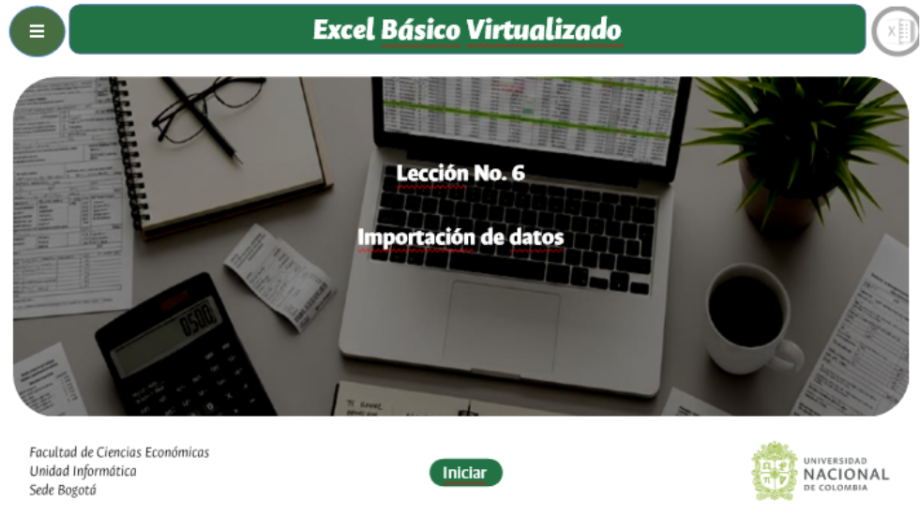
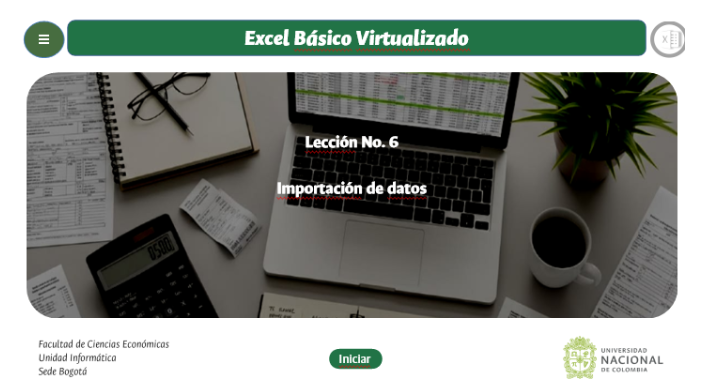
Reestructura Roles del equipo con fotos y LinkedIn, agrega tarjeta de Guion Maestro
- Roles del equipo: tarjetas con foto, nombre y LinkedIn de cada persona
  (Cesar Diaz Suarez como Monitor Master; Ana Sofia Cardozo y Juan E. Laguna
  agrupados en una sola tarjeta de Monitores Junior)
- Nueva tarjeta "Guion Maestro" en la seccion de la plantilla Articulate
- Actualiza imagen "despues" de la primera comparativa
- Renombra seccion Genially y actualiza su subtitulo
- Corrige mayuscula en tarjeta "Foco estrategico"
- Actualiza enlace del recurso "Logo Universidad Interactivo"
- Agrega entregable sobre el archivo .md de integracion con IA en el proyecto de la Guia de Primeros Pasos

diff --git a/data.js b/data.js
@@ -38,7 +38,7 @@ const INTRO_AREA_CARDS = [
   {
     icono: "🎯",
     titulo: "Foco estratégico",
-    texto: "implementar directrices técnicas y pedagógicas transversales. Esta estandarización permite garantizar la alta calidad de los materiales de estudio y maximizar el valor del ecosistema de aprendizaje institucional.",
+    texto: "Implementar directrices técnicas y pedagógicas transversales. Esta estandarización permite garantizar la alta calidad de los materiales de estudio y maximizar el valor del ecosistema de aprendizaje institucional.",
   },
   {
     icono: "🧭",
@@ -129,6 +129,7 @@ const PROYECTOS = [
       "Flujo de 7 etapas de virtualización",
       "Definición de roles (Monitor Máster, Monitores Junior, articulación con otras áreas UIFCE)",
       "Buenas prácticas metodológicas y glosario básico",
+      "<strong>Archivo .md para integrar con inteligencia artificial</strong>",
     ],
     enlaces: {
       documento: "https://docs.google.com/document/d/1d4DcUWD8yY-t4QPceg0EvUQhM8YOXi9bu39DvisUFBc/edit?usp=drive_link",
@@ -362,7 +363,7 @@ const GENIALLY = {
       nombre: "Logo Universidad Interactivo",
       desc: "Creado para colocarlo al inicio de los proyectos.",
       icono: "🏛",
-      url: "https://view.genially.com/6a32d3272e6b24dfa6a8acce",
+      url: "https://drive.google.com/file/d/1sc0Up1jHa-cmhAWqYCL3588x3c0joYuQ/view?usp=sharing",
     },
     {
       nombre: "Materia FCE · Fundamentos de finanzas",
@@ -627,6 +628,13 @@ const PLANTILLA_ARTICULATE = {
   despues: "assets/plantillas/excel-basico-despues.png",
 };
 
+const GUION_MAESTRO = {
+  icono: "📖",
+  titulo: "Nuevo formato: Guión Maestro",
+  desc: "El documento en el que se justifica, desarrolla y documenta cada curso: la base metodológica y de contenido que sustenta el proyecto antes de pasar a producción en Articulate.",
+  url: "https://docs.google.com/document/d/1aZcZ8aBgISKxA-sPjxUsgzjeaMWXVd799EcVeNoiIdM/edit?usp=sharing",
+};
+
 const COMPARATIVA_2 = {
   antes: "assets/plantillas/comparativa2-antes.png",
   despues: "assets/plantillas/comparativa2-despues.gif",
@@ -651,8 +659,21 @@ const FLUJO_VIRTUALIZACION = [
 ];
 
 const ROLES_VIRTUALIZACION = [
-  { icono: "🧑💼", nombre: "Monitor Máster", desc: "Planea, supervisa y coordina el flujo general del área; valida calidad y coherencia de los OVAs." },
-  { icono: "🧑💻", nombre: "Monitores Junior", desc: "Desarrollan y producen los recursos: contenidos, interactividad, audiovisuales y documentación." },
+  {
+    rol: "Monitor Máster",
+    desc: "Implementar, diseñar y gestionar la infraestructura virtualizada conforme a los estándares operativos de la Unidad de Informática, asegurando una experiencia de aprendizaje digital continua, segura y eficiente.",
+    integrantes: [
+      { nombre: "Cesar Diaz Suarez", foto: "assets/equipo/cesar-diaz.png", linkedin: "https://www.linkedin.com/in/cesar-steven-diaz-suarez-744b82250" },
+    ],
+  },
+  {
+    rol: "Monitores Junior",
+    desc: "Producir entornos virtuales e-learning optimizando la experiencia educativa y la disponibilidad de los servicios para la comunidad académica.",
+    integrantes: [
+      { nombre: "Ana Sofia Cardozo", foto: "assets/equipo/ana-cardozo.jpg", linkedin: "https://www.linkedin.com/in/ana-sofia-cardozo-castro-9486a9359?utm_source=share_via&utm_content=profile&utm_medium=member_ios" },
+      { nombre: "Juan E. Laguna", foto: "assets/equipo/juan-laguna.jpg", linkedin: "https://www.linkedin.com/in/juan-esteban-laguna-beltrán-312b4829a?utm_source=share_via&utm_content=profile&utm_medium=member_android" },
+    ],
+  },
 ];
 
 const PRACTICAS_VIRTUALIZACION = [

diff --git a/script.js b/script.js
@@ -248,6 +248,13 @@ function renderPlantillaArticulate() {
   renderCompareSlider("compareSlider", "compareBefore", "compareAfter", "compareHandle", PLANTILLA_ARTICULATE);
   renderCompareSlider("compareSlider2", "compareBefore2", "compareAfter2", "compareHandle2", COMPARATIVA_2);
   renderCompareSlider("compareSlider3", "compareBefore3", "compareAfter3", "compareHandle3", COMPARATIVA_3);
+
+  $("#guionMaestroCard").innerHTML = `
+    <div class="guion-maestro__icono">${GUION_MAESTRO.icono}</div>
+    <h3 class="guion-maestro__titulo">${GUION_MAESTRO.titulo}</h3>
+    <p class="guion-maestro__desc">${GUION_MAESTRO.desc}</p>
+    <a class="linkbtn" href="${GUION_MAESTRO.url}" target="_blank" rel="noopener">Abrir documento ↗</a>
+  `;
 }
 
 function renderCompareSlider(wrapId, beforeId, afterId, handleId, data) {
@@ -293,8 +300,15 @@ function renderGuiaVirtualizacion() {
   const roles = $("#rolesGrid");
   roles.innerHTML = ROLES_VIRTUALIZACION.map(r => `
     <div class="card rol">
-      <div class="rol__icono">${r.icono}</div>
-      <div class="rol__nombre">${r.nombre}</div>
+      <div class="rol__integrantes">
+        ${r.integrantes.map(p => `
+          <a class="rol__persona" href="${p.linkedin}" target="_blank" rel="noopener">
+            <img class="rol__foto" src="${p.foto}" alt="${p.nombre}" />
+            <span class="rol__nombre">${p.nombre}</span>
+          </a>
+        `).join("")}
+      </div>
+      <div class="rol__rol">${r.rol}</div>
       <p class="rol__desc">${r.desc}</p>
     </div>
   `).join("");
@@ -529,17 +543,13 @@ function initNav() {
   }, { passive: true });
 }
 
-/* ---------- Animaciones de aparición (librería Motion) --------------------
-   Se activan cada vez que el usuario ve el elemento (no solo la primera vez):
-   al entrar en pantalla aparece con un leve desplazamiento, al salir se
-   reinicia para poder repetirse la próxima vez que vuelva a la vista.
+/* ---------- Transición de secciones al hacer scroll (librería Motion) -----
+   Cada sección aparece como un solo bloque: fade + leve subida, con una
+   curva suave y algo lenta (estilo cálido/corporativo, sin rebotes). Se
+   activa cada vez que el usuario la ve (no solo la primera vez): al salir
+   de pantalla se reinicia para poder repetirse al volver a verla.
    --------------------------------------------------------------------------- */
-const REVEAL_SELECTOR = [
-  ".section__head", ".hero__content", ".hero__mascot",
-  ".card", ".proj", ".tool", ".guia", ".rol", ".practicav", ".carpeta",
-  ".modalcard", ".orgchart__area", ".flujo__paso", ".glosario__item",
-  ".timeline__item", ".tipo",
-].join(", ");
+const REVEAL_SELECTOR = ".hero, .logoloop-wrap, .section, .footer";
 
 function observeReveal(root = document) {
   if (!window.Motion) return;
@@ -548,12 +558,12 @@ function observeReveal(root = document) {
   if (!targets.length) return;
   targets.forEach(n => { n.dataset.motionBound = "1"; });
   inView(targets, (el) => {
-    animate(el, { opacity: [0, 1], transform: ["translateY(18px)", "translateY(0)"] },
-      { duration: 0.5, easing: [0.22, 1, 0.36, 1] });
+    animate(el, { opacity: [0, 1], transform: ["translateY(28px)", "translateY(0)"] },
+      { duration: 0.75, easing: [0.22, 1, 0.36, 1] });
     return (leave) => {
-      animate(leave.target, { opacity: 0, transform: "translateY(18px)" }, { duration: 0.01 });
+      animate(leave.target, { opacity: 0, transform: "translateY(28px)" }, { duration: 0.01 });
     };
-  }, { margin: "-10% 0px -10% 0px" });
+  }, { margin: "-5% 0px -15% 0px" });
 }
 
 /* ---------- SPLASH CURSOR (fluido WebGL siguiendo el mouse) ----------------

diff --git a/style.css b/style.css
@@ -357,12 +357,16 @@ img { max-width: 100%; display: block; }
 .flujo__nombre { font-weight: 700; font-size: 0.88rem; margin-bottom: 0.35rem; }
 .flujo__desc { font-size: 0.76rem; color: var(--gris-500); line-height: 1.4; }
 
-.rol { display: flex; flex-direction: column; align-items: flex-start; }
-.rol__icono {
-  font-size: 1.4rem; width: 44px; height: 44px; margin-bottom: 0.6rem;
-  background: var(--azul-claro); border-radius: 12px; display: grid; place-items: center;
+.rol { display: flex; flex-direction: column; align-items: center; text-align: center; }
+.rol__integrantes { display: flex; flex-wrap: wrap; justify-content: center; gap: 1.4rem; margin-bottom: 0.9rem; }
+.rol__persona { display: flex; flex-direction: column; align-items: center; gap: 0.4rem; text-decoration: none; }
+.rol__foto {
+  width: 68px; height: 68px; border-radius: 50%; object-fit: cover;
+  border: 3px solid var(--azul-claro); transition: border-color .2s, transform .2s;
 }
-.rol__nombre { font-weight: 700; font-size: 0.96rem; margin-bottom: 0.3rem; }
+.rol__persona:hover .rol__foto { border-color: var(--azul); transform: scale(1.06); }
+.rol__persona .rol__nombre { font-weight: 600; font-size: 0.82rem; color: var(--azul-osc); margin-bottom: 0; }
+.rol__rol { font-weight: 800; font-size: 1.02rem; margin-bottom: 0.5rem; }
 .rol__desc { font-size: 0.84rem; color: var(--gris-500); }
 
 .practicav { display: flex; flex-direction: column; align-items: flex-start; }
@@ -408,6 +412,16 @@ img { max-width: 100%; display: block; }
   background: #fff; color: var(--azul-osc); width: 38px; height: 38px; border-radius: 50%;
   display: grid; place-items: center; box-shadow: var(--sombra-lg); font-size: 1.05rem;
 }
+
+.guion-maestro {
+  max-width: 640px; margin: 1.8rem auto 0; text-align: center;
+}
+.guion-maestro__icono {
+  font-size: 1.8rem; width: 56px; height: 56px; margin: 0 auto 0.8rem;
+  background: var(--azul-claro); border-radius: 14px; display: grid; place-items: center;
+}
+.guion-maestro__titulo { font-size: 1.15rem; font-weight: 800; margin-bottom: 0.6rem; }
+.guion-maestro__desc { font-size: 0.92rem; color: var(--gris-700); margin-bottom: 1.1rem; line-height: 1.6; }
 
 /* ---------- GENIALLY ---------- */
 .genially__intro p { color: var(--gris-700); font-size: 1rem; }

diff --git a/index.html b/index.html
@@ -162,6 +162,7 @@
       <img class="compareslider__img compareslider__before" id="compareBefore" alt="Antes" />
       <div class="compareslider__handle" id="compareHandle"></div>
     </div>
+    <div class="card card--highlight guion-maestro" id="guionMaestroCard"></div>
   </section>
 
   <!-- ============ COMPARATIVA 2 ============ -->
